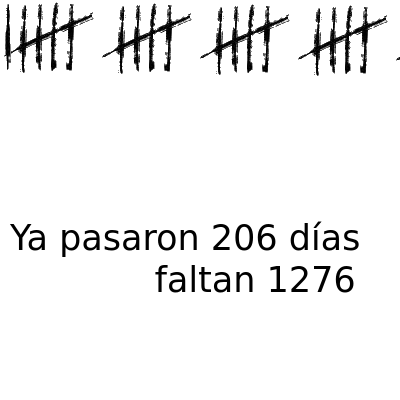
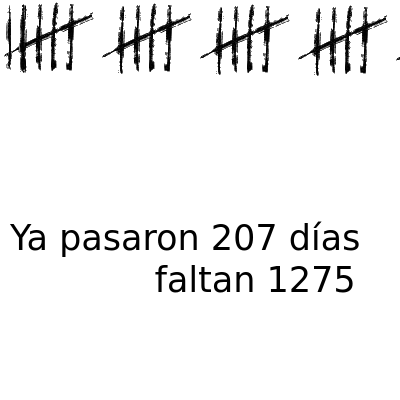
deploy: 28882f26f23b9f53dac6c4991168e610486d0e44

Changed region(s): [[0.0, 0.0, 0.09, 0.18], [0.63, 0.54, 0.69, 0.63], [0.84, 0.66, 0.9, 0.75]]

diff --git a/index.html b/index.html
@@ -3,19 +3,19 @@
   <head>
     <meta charset='utf-8'>
     <meta http-equiv='X-UA-Compatible' content='IE=edge'>
-    <title>Ya pasaron 206 días y faltan 1276</title>
-    <meta name="description" content="Ya pasaron 206 días y faltan 1276">
-    <meta itemprop="name" content="Ya pasaron 206 días y faltan 1276">
-    <meta itemprop="description" content="Ya pasaron 206 días y faltan 1276">
+    <title>Ya pasaron 207 días y faltan 1275</title>
+    <meta name="description" content="Ya pasaron 207 días y faltan 1275">
+    <meta itemprop="name" content="Ya pasaron 207 días y faltan 1275">
+    <meta itemprop="description" content="Ya pasaron 207 días y faltan 1275">
     <meta name="twitter:card" content="summary">
-    <meta name="twitter:title" content="Ya pasaron 206 días y faltan 1276">
-    <meta name="twitter:description" content="Ya pasaron 206 días y faltan 1276">
+    <meta name="twitter:title" content="Ya pasaron 207 días y faltan 1275">
+    <meta name="twitter:description" content="Ya pasaron 207 días y faltan 1275">
     <meta name="twitter:creator" content="@FloriusWasTaken">
     <meta name="twitter:image" content="https://pasaron.meme.ar/capture.png">
-    <meta property="og:title" content="Ya pasaron 206 días y faltan 1276">
-    <meta property="og:description" content="Ya pasaron 206 días y faltan 1276">
+    <meta property="og:title" content="Ya pasaron 207 días y faltan 1275">
+    <meta property="og:description" content="Ya pasaron 207 días y faltan 1275">
     <meta property="og:url" content="https://pasaron.meme.ar">
-    <meta property="og:site_name" content="Ya pasaron 206 días y faltan 1276">
+    <meta property="og:site_name" content="Ya pasaron 207 días y faltan 1275">
     <meta property="og:type" content="website">
     <meta property="og:image" content="https://pasaron.meme.ar/capture.png">
     <meta name="theme-color" content="#dc143c">
@@ -69,18 +69,18 @@
         padding: 0;
       }
     </style>
-    <title>Ya pasaron 206 días y faltan 1276</title>
+    <title>Ya pasaron 207 días y faltan 1275</title>
   </head>
   <body>
     <div id="main">
       <img src="img/5.png"/><img src="img/5.png"/><img src="img/5.png"/><img src="img/5.png"/><img src="img/5.png"/><img src="img/5.png"/><img src="img/5.png"/><img src="img/5.png"/><img src="img/5.png"/><img src="img/5.png"/><img src="img/5.png"/><img src="img/5.png"/><img src="img/5.png"/><img src="img/5.png"/><img src="img/5.png"/><img src="img/5.png"/><img src="img/5.png"/><img src="img/5.png"/><img src="img/5.png"/><img src="img/5.png"/><img src="img/5.png"/><img src="img/5.png"/><img src="img/5.png"/><img src="img/5.png"/><img src="img/5.png"/><img src="img/5.png"/><img src="img/5.png"/><img src="img/5.png"/><img src="img/5.png"/><img src="img/5.png"/><img src="img/5.png"/><img src="img/5.png"/><img src="img/5.png"/><img src="img/5.png"/><img src="img/5.png"/><img src="img/5.png"/><img src="img/5.png"/><img src="img/5.png"/><img src="img/5.png"/><img src="img/5.png"/><img src="img/5.png"/>
       
-        <img src="img/1.png"/>
+        <img src="img/2.png"/>
       
     </div>
     <footer id="footer">
       <marquee id="marquee" class="is-vertical-align">
-        Ya pasaron 206 días y faltan 1276
+        Ya pasaron 207 días y faltan 1275
       </marquee>
       <ul>
         <li>
